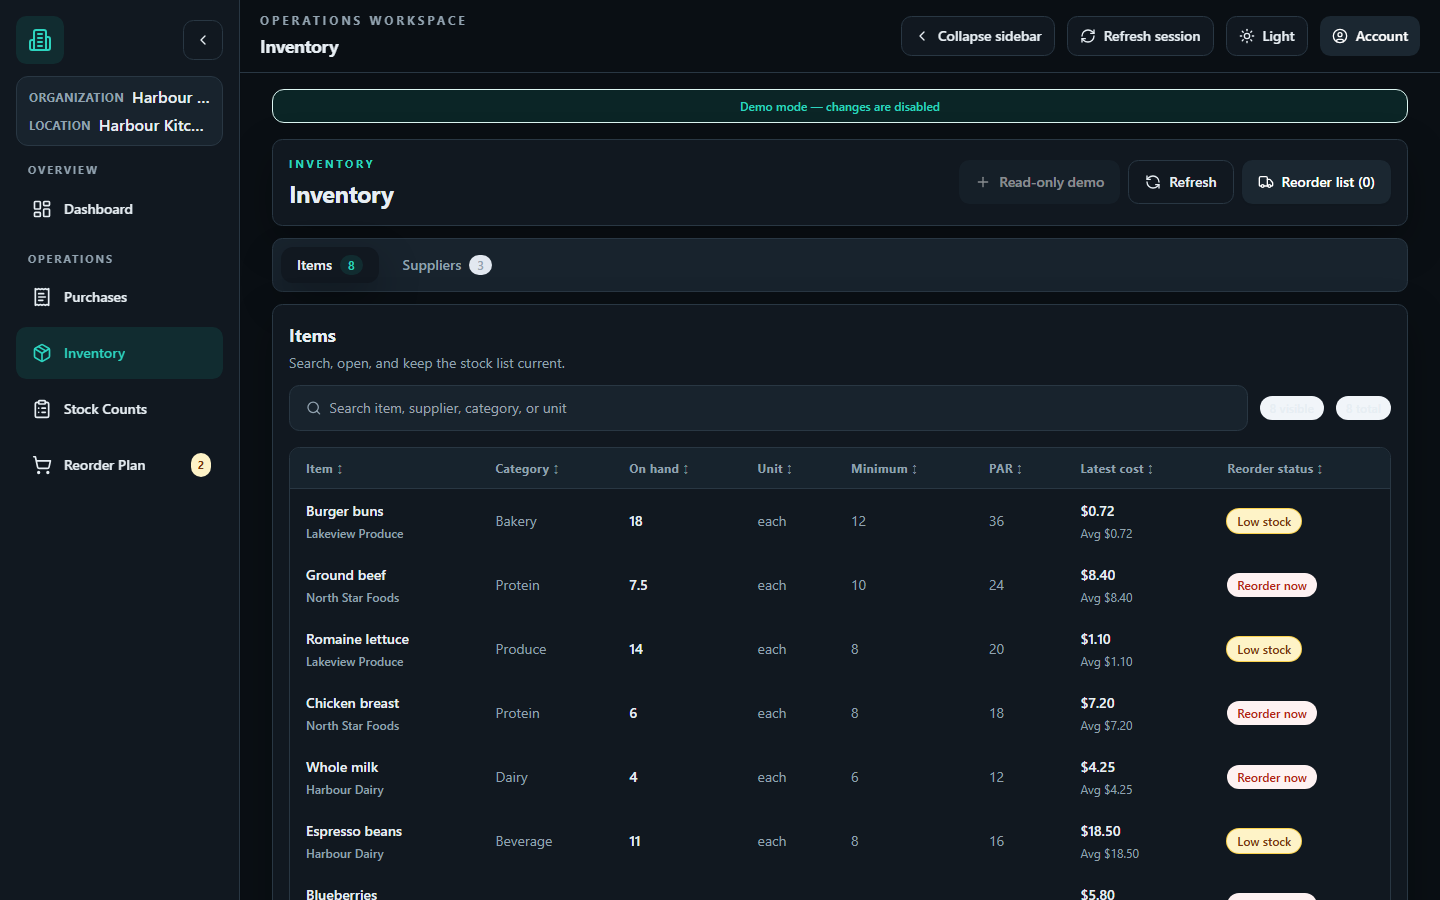
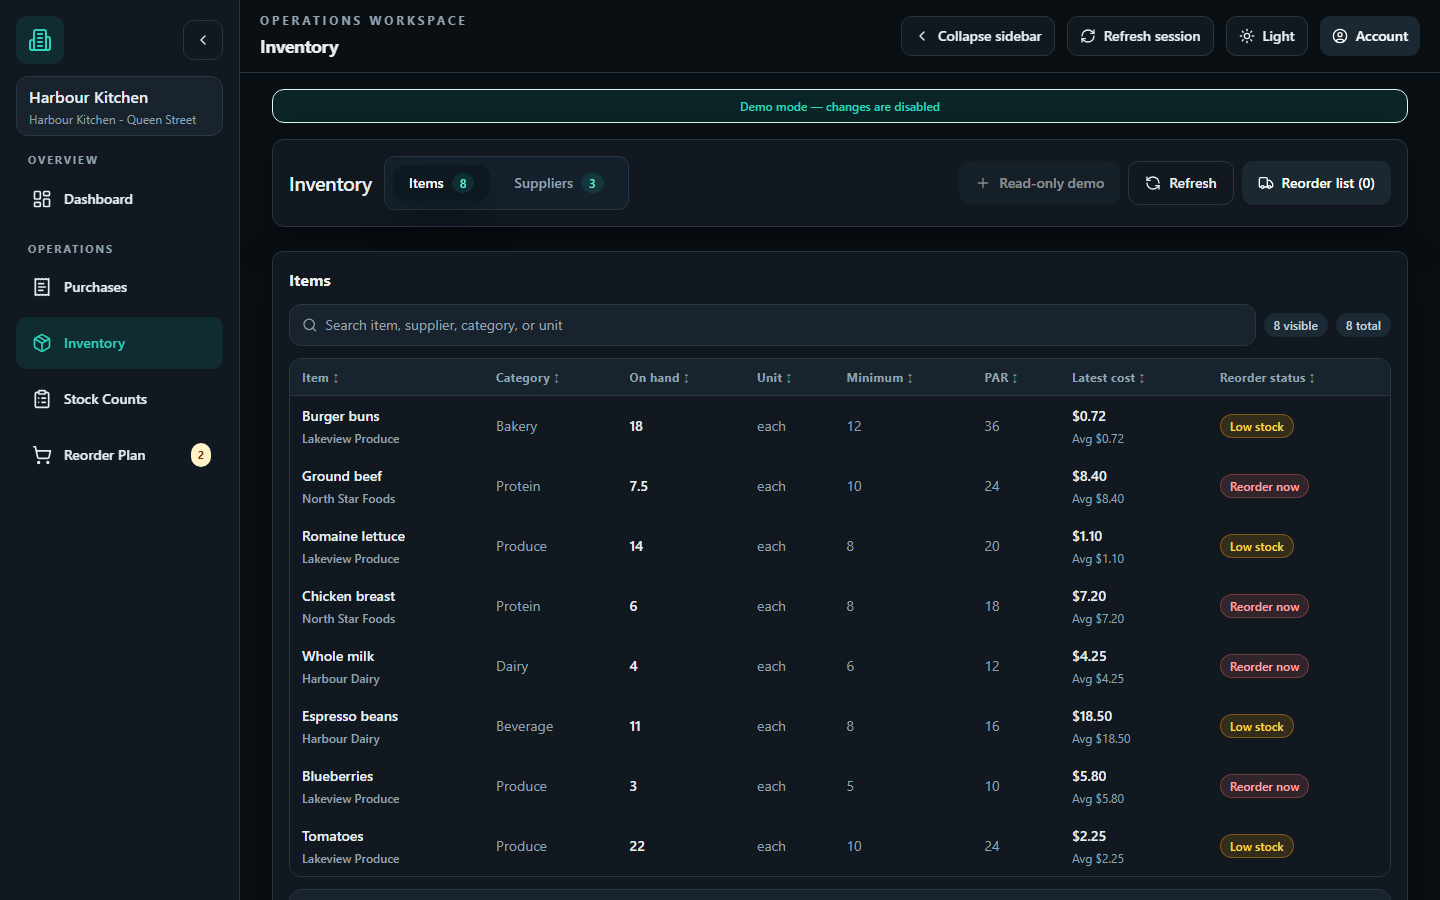
Restructure inventory workspace visual hierarchy

diff --git a/src/pilot/PilotInventoryWorkspace.tsx b/src/pilot/PilotInventoryWorkspace.tsx
@@ -1,12 +1,11 @@
 import { useEffect, useMemo, useState, type ReactNode } from "react";
-import { ArrowLeft, Plus, RefreshCcw, Scale, Search, SquarePen, Truck } from "lucide-react";
+import { ArrowLeft, MoreHorizontal, Plus, RefreshCcw, Scale, Search, SquarePen, Truck } from "lucide-react";
 import { useNavigate } from "react-router-dom";
 import { Badge } from "../components/Badge";
 import { Button } from "../components/Button";
 import { Card } from "../components/Card";
 import { Modal } from "../components/Modal";
 import { SectionHeader } from "../components/SectionHeader";
-import { WorkspacePageHeader } from "./workspace/WorkspacePageHeader";
 import { WorkspaceTabs } from "./workspace/WorkspaceTabs";
 import {
   createPilotInventoryAdjustment,
@@ -150,6 +149,7 @@ export function PilotInventoryPage() {
   const [selectedId, setSelectedId] = useState<number | null>(null);
   const [workspaceMode, setWorkspaceMode] = useState<InventoryWorkspaceMode>("browse");
   const [inventoryTab, setInventoryTab] = useState<InventoryTab>("items");
+  const [inventoryActionMenuOpen, setInventoryActionMenuOpen] = useState(false);
   const [itemDetailTab, setItemDetailTab] = useState<ItemDetailTab>("overview");
   const [isEditing, setIsEditing] = useState(false);
   const [itemHistoryTab, setItemHistoryTab] = useState<ItemHistoryTab>("purchases");
@@ -497,19 +497,24 @@ export function PilotInventoryPage() {
   };
 
   const renderItemTable = () => (
-    <Card className="workspace-card pilot-inventory-reference p-4">
-      <SectionHeader title="Items" description="Search, open, and keep the stock list current." />
-      <div className="flex flex-wrap items-center gap-3">
-        <div className="flex flex-1 items-center gap-2 rounded-2xl border border-line bg-slate-50 px-4 py-3">
+    <Card className="workspace-card pilot-inventory-reference p-3 sm:p-4">
+      <div className="mb-3 flex items-center justify-between gap-3">
+        <h2 className="text-base font-bold text-ink">Items</h2>
+        {loading && hasLoaded ? <span className="text-xs font-semibold text-muted">Refreshing…</span> : null}
+      </div>
+      <div className="flex flex-col gap-2 sm:flex-row sm:items-center">
+        <div className="flex min-w-0 flex-1 items-center gap-2 rounded-xl border border-line bg-slate-50 px-3 py-2.5">
           <Search className="h-4 w-4 text-muted" />
           <input className="w-full bg-transparent text-sm outline-none" placeholder="Search item, supplier, category, or unit" value={search} onChange={(event) => setSearch(event.target.value)} />
         </div>
-        <Badge tone="neutral">{hasLoaded ? filteredItems.length : "—"} visible</Badge>
-        <Badge tone="neutral">{hasLoaded ? data?.items.length ?? 0 : "—"} total</Badge>
+        <div className="flex shrink-0 items-center gap-2">
+          <Badge tone="neutral">{hasLoaded ? filteredItems.length : "—"} visible</Badge>
+          <Badge tone="neutral">{hasLoaded ? data?.items.length ?? 0 : "—"} total</Badge>
+        </div>
       </div>
 
-      <div className="mt-4 overflow-hidden rounded-2xl border border-line bg-white">
-        <div className="max-h-[62vh] overflow-x-auto overflow-y-auto">
+      <div className="mt-3 overflow-hidden rounded-xl border border-line bg-white">
+        <div className="max-h-[62vh] overflow-x-auto overflow-y-auto" role="region" aria-label="Inventory items table" tabIndex={0}>
           <table className="min-w-[720px] border-separate border-spacing-0 text-left text-sm sm:min-w-full">
             <thead className="sticky top-0 z-10 bg-slate-50 text-xs uppercase tracking-wide text-muted">
               <tr>
@@ -517,7 +522,7 @@ export function PilotInventoryPage() {
                   const key = ({ Item: "item", Category: "category", "On hand": "onHand", Unit: "unit", Minimum: "minimum", PAR: "par", "Latest cost": "latestCost", "Reorder status": "status" } as const)[heading];
                   const active = itemSort?.key === key;
                   return (
-                  <th key={heading} className="border-b border-line px-4 py-3 font-bold" aria-sort={active ? (itemSort?.direction === "asc" ? "ascending" : "descending") : "none"}>
+                    <th key={heading} className="border-b border-line px-3 py-2.5 font-bold" aria-sort={active ? (itemSort?.direction === "asc" ? "ascending" : "descending") : "none"}>
                     <button type="button" className="inline-flex items-center gap-1 text-left" onClick={() => setItemSort((current) => current?.key !== key ? { key, direction: "asc" } : current.direction === "asc" ? { key, direction: "desc" } : null)}>
                       {heading}<span aria-hidden="true" className="text-[10px]">{active ? (itemSort?.direction === "asc" ? "▲" : "▼") : "↕"}</span>
                     </button>
@@ -531,24 +536,24 @@ export function PilotInventoryPage() {
                 const status = stockStatus(item);
                 return (
                   <tr key={item.id} className="cursor-pointer border-b border-line bg-white transition hover:bg-brand-50/60" onClick={() => openItem(item.id)}>
-                    <td className="px-4 py-3 font-semibold text-ink">
+                    <td className="px-3 py-2.5 font-semibold text-ink">
                       <div>
                         <p>{item.name}</p>
                         <p className="mt-1 text-xs text-muted">{item.preferredSupplierName || "No supplier"}</p>
                       </div>
                     </td>
-                    <td className="px-4 py-3 text-muted">{item.category}</td>
-                    <td className="px-4 py-3 font-medium text-ink">{formatNumber(item.currentOnHand)}</td>
-                    <td className="px-4 py-3 text-muted">{item.stockUnit}</td>
-                    <td className="px-4 py-3 text-muted">{formatNumber(item.minQuantity)}</td>
-                    <td className="px-4 py-3 text-muted">{formatNumber(item.parLevel)}</td>
-                    <td className="px-4 py-3 text-muted">
+                    <td className="px-3 py-2.5 text-muted">{item.category}</td>
+                    <td className="px-3 py-2.5 font-medium text-ink">{formatNumber(item.currentOnHand)}</td>
+                    <td className="px-3 py-2.5 text-muted">{item.stockUnit}</td>
+                    <td className="px-3 py-2.5 text-muted">{formatNumber(item.minQuantity)}</td>
+                    <td className="px-3 py-2.5 text-muted">{formatNumber(item.parLevel)}</td>
+                    <td className="px-3 py-2.5 text-muted">
                       <div className="space-y-1">
                         <p className="font-medium text-ink">{formatMoney(item.latestPurchasePrice)}</p>
                         <p className="text-xs text-muted">Avg {item.averageUnitCost && item.averageUnitCost > 0 ? formatMoney(item.averageUnitCost) : "not set"}</p>
                       </div>
                     </td>
-                    <td className="px-4 py-3">
+                    <td className="px-3 py-2.5">
                       <Badge tone={statusTone(status)}>{status}</Badge>
                     </td>
                   </tr>
@@ -560,13 +565,14 @@ export function PilotInventoryPage() {
           {!loading && hasLoaded && !filteredItems.length ? <p className="px-4 py-8 text-sm text-muted">No inventory items match this search.</p> : null}
         </div>
       </div>
+      <p className="mt-2 text-xs text-muted sm:hidden">Swipe horizontally to see cost and reorder status.</p>
 
-      <div className="mt-5 rounded-2xl border border-line bg-slate-50 p-4 text-sm text-muted">
+      <div className="mt-3 rounded-xl border border-line bg-slate-50 p-3 text-sm text-muted">
         <p className="font-semibold text-ink">PAR and Minimum</p>
         <p className="mt-1">PAR is the target stock level. Minimum is the point where reorder becomes urgent.</p>
       </div>
 
-      <div className="mt-4">
+      <div className="mt-3">
         <SectionHeader title="Recent movements" description="What changed most recently." />
         <div className="max-h-72 space-y-2 overflow-y-auto pr-1">
           {(data?.movements ?? []).slice(0, 8).map((movement) => (
@@ -1192,46 +1198,49 @@ export function PilotInventoryPage() {
     <div className="workspace-page">
       {error ? <div className="flex flex-wrap items-center justify-between gap-3 rounded-2xl border border-amber-200 bg-amber-50 px-4 py-3 text-sm text-amber-900"><span>{error}</span><Button variant="secondary" type="button" onClick={() => void load()} disabled={loading}>Retry</Button></div> : null}
       {workspaceMode === "browse" ? (
-        <WorkspacePageHeader
-          eyebrow="Inventory"
-          title="Inventory"
-          actions={
-            <>
-              <Button
-                icon={<Plus className="h-4 w-4" />}
-                type="button"
-                disabled={demoReadOnly}
-                title={demoReadOnly ? "Read-only demo" : undefined}
-                onClick={() => {
-                  setInventoryTab("items");
-                  startNewItem();
-                }}
-              >{demoReadOnly ? "Read-only demo" : "Create item"}</Button>
-              <Button variant="secondary" icon={<RefreshCcw className="h-4 w-4" />} type="button" onClick={() => void load()} disabled={loading}>
-                Refresh
-              </Button>
-              <Button type="button" icon={<Truck className="h-4 w-4" />} onClick={() => navigate("/app/reorder-plan")}>
-                Reorder list ({hasLoaded ? reorderCount : "—"})
-              </Button>
-            </>
-          }
-          metrics={[]}
-        />
-      ) : (
-        <></>
-      )}
-
-      {workspaceMode === "browse" ? (
         <>
+          <div className="inventory-toolbar workspace-card mb-3 rounded-xl border border-line bg-white p-2.5 shadow-soft sm:p-3">
+            <div className="flex items-center justify-between gap-2">
+              <div className="flex min-w-0 items-center gap-3">
+                <h1 className="shrink-0 text-lg font-semibold tracking-tight text-ink sm:text-xl">Inventory</h1>
+                <WorkspaceTabs
+                tabs={[
+                  { id: "items", label: "Items", badge: hasLoaded ? formatNumber(data?.summary.inventoryItemCount ?? 0) : "—" },
+                  { id: "suppliers", label: "Suppliers", badge: hasLoaded ? formatNumber(suppliers.length) : "—" },
+                ]}
+                value={inventoryTab}
+                onChange={(value) => setInventoryTab(value as InventoryTab)}
+                />
+              </div>
+              <div className="hidden items-center gap-2 sm:flex">
+                <Button
+                  icon={<Plus className="h-4 w-4" />}
+                  type="button"
+                  disabled={demoReadOnly}
+                  title={demoReadOnly ? "Read-only demo" : undefined}
+                  onClick={() => {
+                    setInventoryTab("items");
+                    startNewItem();
+                  }}
+                >{demoReadOnly ? "Read-only demo" : "Create item"}</Button>
+                <Button variant="secondary" icon={<RefreshCcw className="h-4 w-4" />} type="button" onClick={() => void load()} disabled={loading}>Refresh</Button>
+                <Button type="button" icon={<Truck className="h-4 w-4" />} onClick={() => navigate("/app/reorder-plan")}>Reorder list ({hasLoaded ? reorderCount : "—"})</Button>
+              </div>
+              <div className="relative sm:hidden">
+                <button className="inline-flex h-10 w-10 items-center justify-center rounded-xl border border-line bg-white text-ink" type="button" aria-label="Open inventory actions" aria-expanded={inventoryActionMenuOpen} onClick={() => setInventoryActionMenuOpen((open) => !open)}>
+                  <MoreHorizontal className="h-4 w-4" />
+                </button>
+                {inventoryActionMenuOpen ? (
+                  <div className="absolute right-0 top-12 z-20 w-52 rounded-xl border border-line bg-white p-2 shadow-xl">
+                    <button className="flex min-h-10 w-full items-center gap-2 rounded-lg px-3 text-left text-sm font-semibold text-ink hover:bg-slate-50" type="button" disabled={demoReadOnly} onClick={() => { setInventoryActionMenuOpen(false); setInventoryTab("items"); startNewItem(); }}><Plus className="h-4 w-4" />{demoReadOnly ? "Read-only demo" : "Create item"}</button>
+                    <button className="flex min-h-10 w-full items-center gap-2 rounded-lg px-3 text-left text-sm font-semibold text-ink hover:bg-slate-50" type="button" disabled={loading} onClick={() => { setInventoryActionMenuOpen(false); void load(); }}><RefreshCcw className="h-4 w-4" />Refresh</button>
+                    <button className="flex min-h-10 w-full items-center gap-2 rounded-lg px-3 text-left text-sm font-semibold text-ink hover:bg-slate-50" type="button" onClick={() => { setInventoryActionMenuOpen(false); navigate("/app/reorder-plan"); }}><Truck className="h-4 w-4" />Reorder list ({hasLoaded ? reorderCount : "—"})</button>
+                  </div>
+                ) : null}
+              </div>
+            </div>
+          </div>
           {message ? <div className="rounded-2xl border border-emerald-200 bg-emerald-50 px-4 py-3 text-sm text-emerald-900">{message}</div> : null}
-          <WorkspaceTabs
-            tabs={[
-              { id: "items", label: "Items", badge: hasLoaded ? formatNumber(data?.summary.inventoryItemCount ?? 0) : "—" },
-              { id: "suppliers", label: "Suppliers", badge: hasLoaded ? formatNumber(suppliers.length) : "—" },
-            ]}
-            value={inventoryTab}
-            onChange={(value) => setInventoryTab(value as InventoryTab)}
-          />
           {inventoryTab === "suppliers" ? renderSupplierWorkspace() : renderItemTable()}
         </>
       ) : null}

diff --git a/src/pilot/PilotWorkspaceLayout.tsx b/src/pilot/PilotWorkspaceLayout.tsx
@@ -409,26 +409,29 @@ export function PilotWorkspaceLayout() {
           </div>
 
           {!desktopSidebarCollapsed ? (
-            <div className="mt-3 rounded-xl border border-line bg-slate-50 px-3 py-2">
-              <div className="flex items-center justify-between gap-2">
-                <p className="text-xs font-bold uppercase tracking-wide text-muted">Organization</p>
+            <div className="pilot-context mt-3 rounded-xl border border-line bg-slate-50 px-3 py-2">
+              <div className="min-w-0">
                 {organizations.length > 1 ? (
-                  <select className="input mt-1" value={organization.id} onChange={handleOrganizationChange}>
+                  <label className="block">
+                    <span className="sr-only">Organization</span>
+                    <select className="input w-full truncate bg-transparent px-0 py-0 font-semibold shadow-none" value={organization.id} onChange={handleOrganizationChange}>
                     {organizations.map((entry) => (
                       <option key={entry.organization.id} value={entry.organization.id}>
                         {entry.organization.name} {entry.membershipRole === "owner" ? "(Owner)" : "(Manager)"}
                       </option>
                     ))}
-                  </select>
+                    </select>
+                  </label>
                 ) : (
-                <p className="min-w-0 max-w-[9rem] truncate font-semibold text-ink" title={organization?.name ?? "Flowtally"}>{organization?.name ?? "Flowtally"}</p>
+                  <p className="truncate font-semibold text-ink" title={organization?.name ?? "Flowtally"}>{organization?.name ?? "Flowtally"}</p>
                 )}
               </div>
 
-              <div className="mt-1 flex items-center justify-between gap-2">
-                <p className="text-xs font-bold uppercase tracking-wide text-muted">Location</p>
+              <div className="mt-0.5 min-w-0">
                 {locations.length > 1 ? (
-                  <select className="input mt-1" value={currentLocation?.id ?? ""} onChange={handleLocationChange}>
+                  <label className="block">
+                    <span className="sr-only">Location</span>
+                    <select className="input w-full truncate bg-transparent px-0 py-0 text-xs shadow-none" value={currentLocation?.id ?? ""} onChange={handleLocationChange}>
                     {!currentLocation ? (
                       <option value="" disabled>
                         Select a location
@@ -439,9 +442,10 @@ export function PilotWorkspaceLayout() {
                         {entry.name}
                       </option>
                     ))}
-                  </select>
+                    </select>
+                  </label>
                 ) : (
-                  <p className="min-w-0 max-w-[9rem] truncate font-semibold text-ink" title={locationLabel}>{locationLabel}</p>
+                  <p className="truncate text-xs text-muted" title={locationLabel}>{locationLabel}</p>
                 )}
               </div>
             </div>

diff --git a/src/styles.css b/src/styles.css
@@ -326,6 +326,69 @@ textarea.input {
   color: #718391;
 }
 
+.pilot-theme-dark .pilot-badge-neutral,
+.pilot-theme-dark .pilot-badge-info {
+  background: #1b2a34 !important;
+  color: #c2d1da !important;
+}
+
+.pilot-theme-dark .pilot-badge-success {
+  background: rgba(20, 184, 166, 0.16) !important;
+  color: #6ee7d8 !important;
+}
+
+.pilot-theme-dark .pilot-badge-warning,
+.pilot-theme-dark .pilot-badge-orange {
+  background: rgba(245, 158, 11, 0.16) !important;
+  color: #fcd34d !important;
+  box-shadow: inset 0 0 0 1px rgba(245, 158, 11, 0.4);
+}
+
+.pilot-theme-dark .pilot-badge-danger,
+.pilot-theme-dark .pilot-badge-critical {
+  background: rgba(248, 113, 113, 0.14) !important;
+  color: #fda4af !important;
+  box-shadow: inset 0 0 0 1px rgba(248, 113, 113, 0.32);
+}
+
+.pilot-theme-dark .pilot-context select {
+  background-color: transparent !important;
+  border-color: transparent !important;
+}
+
+.pilot-theme-dark .pilot-tabs {
+  background: #14212c !important;
+}
+
+.pilot-theme-dark .pilot-tab-badge {
+  background: rgba(20, 184, 166, 0.14) !important;
+  color: #6ee7d8 !important;
+}
+
+.pilot-theme-dark .pilot-tabs [role="tab"][aria-selected="true"] {
+  background: #0d1821 !important;
+  color: #f8fafc !important;
+}
+
+.pilot-theme-dark .hover\:bg-slate-100:hover,
+.pilot-theme-dark .hover\:bg-slate-50:hover {
+  background: #1b2a34 !important;
+}
+
+.pilot-theme-dark .hover\:bg-brand-50:hover {
+  background: rgba(20, 184, 166, 0.13) !important;
+}
+
+.pilot-theme-dark .disabled\:bg-slate-100:disabled {
+  background: #18232d !important;
+}
+
+@media (max-width: 639px) {
+  .pilot-inventory-reference .section-header {
+    margin-bottom: 0.5rem;
+  }
+}
+
 .pilot-theme-dark .workspace-table-wrap,
 .pilot-theme-dark .pilot-inventory-reference > div {
   border-color: var(--pilot-line);

diff --git a/src/pilot/workspace/WorkspaceTabs.tsx b/src/pilot/workspace/WorkspaceTabs.tsx
@@ -17,7 +17,7 @@ export function WorkspaceTabs({ tabs, value, onChange, className, ariaLabel = "W
   return (
     <div
       aria-label={ariaLabel}
-      className={`flex flex-wrap gap-2 rounded-2xl border border-line bg-slate-50 p-2 ${className ?? ""}`.trim()}
+      className={`pilot-tabs flex flex-wrap gap-2 rounded-2xl border border-line bg-slate-50 p-2 ${className ?? ""}`.trim()}
       role="tablist"
     >
       {tabs.map((tab) => {
@@ -36,7 +36,7 @@ export function WorkspaceTabs({ tabs, value, onChange, className, ariaLabel = "W
             type="button"
           >
             <span>{tab.label}</span>
-            {tabBadge !== undefined && tabBadge !== null ? <span className={`rounded-full px-2 py-0.5 text-xs ${active ? "bg-brand-50 text-brand-700" : "bg-slate-200 text-muted"}`}>{tabBadge}</span> : null}
+            {tabBadge !== undefined && tabBadge !== null ? <span className={`pilot-tab-badge rounded-full px-2 py-0.5 text-xs ${active ? "bg-brand-50 text-brand-700" : "bg-slate-200 text-muted"}`}>{tabBadge}</span> : null}
           </button>
         );
       })}

diff --git a/tests/frontend/PilotModuleAccess.test.tsx b/tests/frontend/PilotModuleAccess.test.tsx
@@ -159,8 +159,8 @@ describe("Pilot module access", () => {
       </MemoryRouter>,
     );
 
-    expect(screen.getByText("Organization")).toBeVisible();
-    expect(screen.getByText("Location")).toBeVisible();
+    expect(screen.getByText("Variance Cafe")).toBeVisible();
+    expect(screen.getByText("Line Kitchen")).toBeVisible();
     expect(screen.queryByText("Workspace")).not.toBeInTheDocument();
     expect(screen.queryByText("Variance Cafe · Line Kitchen")).not.toBeInTheDocument();
 

diff --git a/src/components/Badge.tsx b/src/components/Badge.tsx
@@ -19,7 +19,7 @@ const tones: Record<BadgeTone, string> = {
 
 export function Badge({ children, tone = "neutral" }: BadgeProps) {
   return (
-    <span className={`inline-flex items-center rounded-full px-2.5 py-1 text-xs font-semibold ${tones[tone]}`}>
+    <span className={`pilot-badge pilot-badge-${tone} inline-flex items-center rounded-full px-2.5 py-1 text-xs font-semibold ${tones[tone]}`}>
       {children}
     </span>
   );
